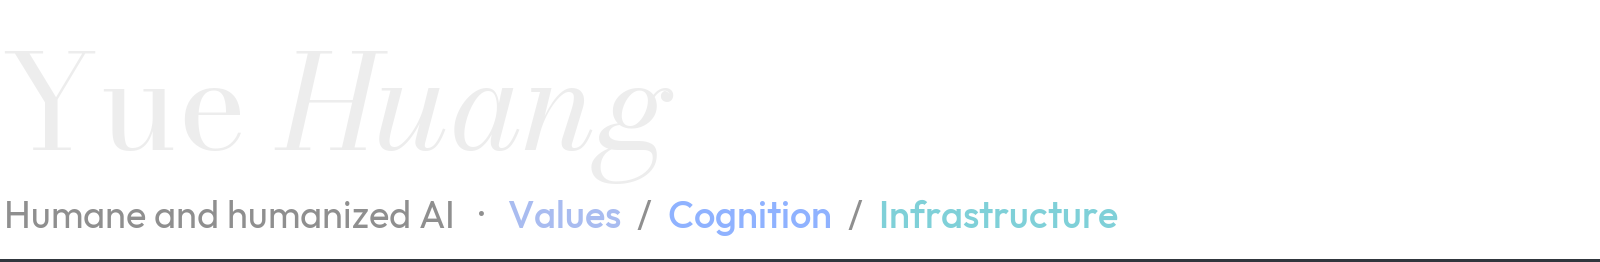
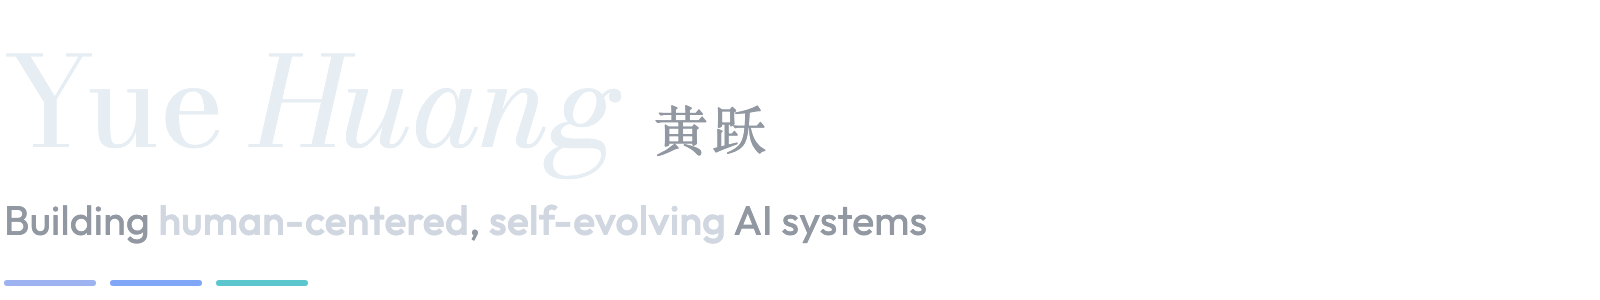
Refresh the profile README: new header, highlights

diff --git a/README.md b/README.md
@@ -1,8 +1,15 @@
 <picture>
   <source media="(prefers-color-scheme: dark)" srcset="assets/header-dark.png">
-  <img alt="Yue Huang — humane and humanized AI: values, cognition, infrastructure" src="assets/header-light.png" width="100%">
+  <img alt="Yue Huang 黄跃 — building human-centered, self-evolving AI systems" src="assets/header-light.png" width="100%">
 </picture>
 
 [Website](https://howiehwong.github.io/) &nbsp;·&nbsp; [Google Scholar](https://scholar.google.com/citations?user=HvzvvqQAAAAJ) &nbsp;·&nbsp; [X](https://x.com/HowieH36226) &nbsp;·&nbsp; [LinkedIn](https://www.linkedin.com/in/yue-huang-696816265/) &nbsp;·&nbsp; [Email](mailto:yhuang37@nd.edu)
 
-I'm a third-year PhD student at the [University of Notre Dame](https://www.nd.edu/), advised by Prof. [Xiangliang Zhang](https://scholar.google.com/citations?user=BhRJe4wAAAAJ) in the [MINE Lab](https://mine-lab-nd.github.io/). I build AI that shares our values, mirrors our cognition, and the infrastructure to make it real.
+I'm a third-year Ph.D. student at the [University of Notre Dame](https://www.nd.edu/), advised by Prof. [Xiangliang Zhang](https://scholar.google.com/citations?user=BhRJe4wAAAAJ) in the [MINE Lab](https://mine-lab-nd.github.io/), and a visiting researcher at [Stanford University](https://www.stanford.edu/). Before that, I did research at Microsoft Research, the MIT-IBM Watson AI Lab & IBM Research, and Tsinghua KEG.
+
+#### Highlights
+
+- 📄 Our study of [emergent risks in multi-agent systems](https://arxiv.org/abs/2603.27771) is accepted in principle at *Nature Machine Intelligence*.
+- 🧮 [Épi](https://bakeai.inc/research/articles/epi/), my agent system, broke 120 world records in mathematics at the time.
+- 🏟 [RSI Arena](https://rsiarena.org/), a live arena for recursive self-improvement, drew more than 10,000 viewers.
+- 🛡 [TrustLLM](https://github.com/HowieHwong/TrustLLM) is recognized by the International AI Safety Report, NIST and the U.S. Department of Defense.
